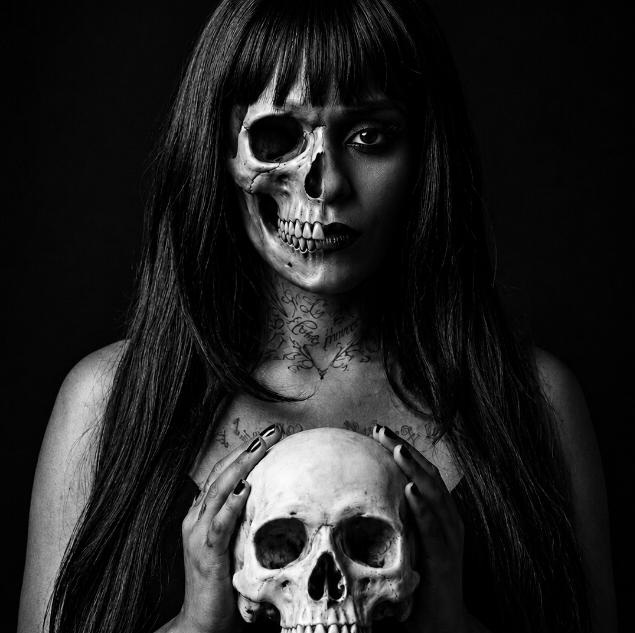
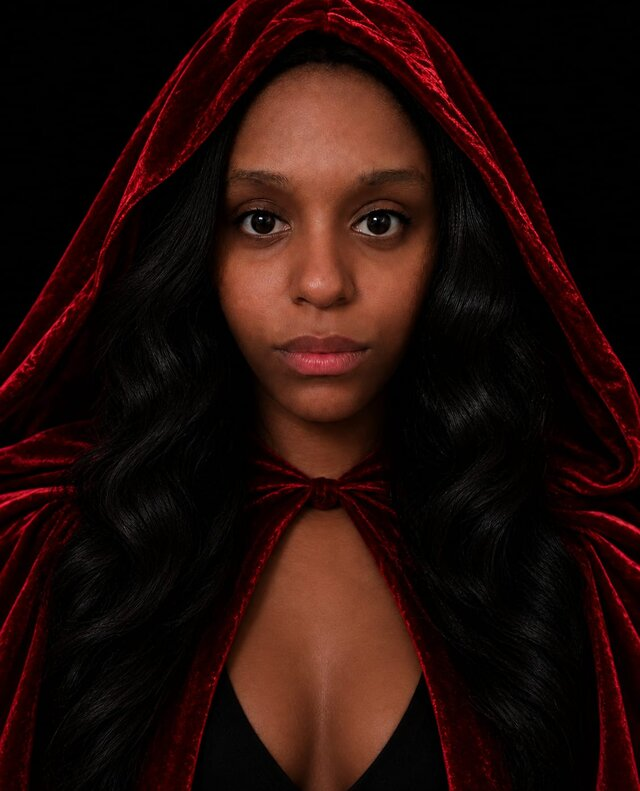
Add Sathorya Mori's real photo, replacing the placeholder portrait
Converted to webp (with jpg fallback), resized to 640px wide, keeping
color per the client's preference. Updated width/height attributes to
match the new file's dimensions.

diff --git a/sathorya-mori/index.html b/sathorya-mori/index.html
@@ -281,7 +281,7 @@
         <picture>
           <source srcset="assets/sathorya.webp" type="image/webp">
           <img src="assets/sathorya.jpg" alt="Retrato de Mestra Sathorya Mori, dirigente do templo"
-               width="635" height="633" loading="lazy" decoding="async">
+               width="640" height="791" loading="lazy" decoding="async">
         </picture>
       </div>
 
